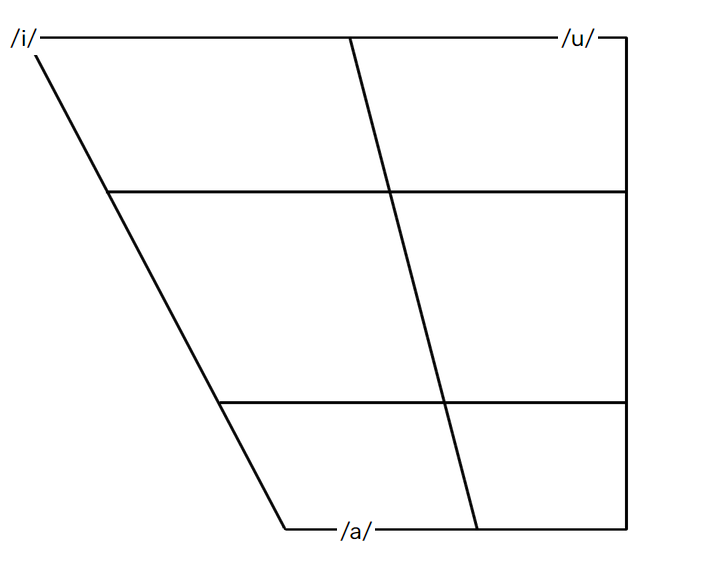
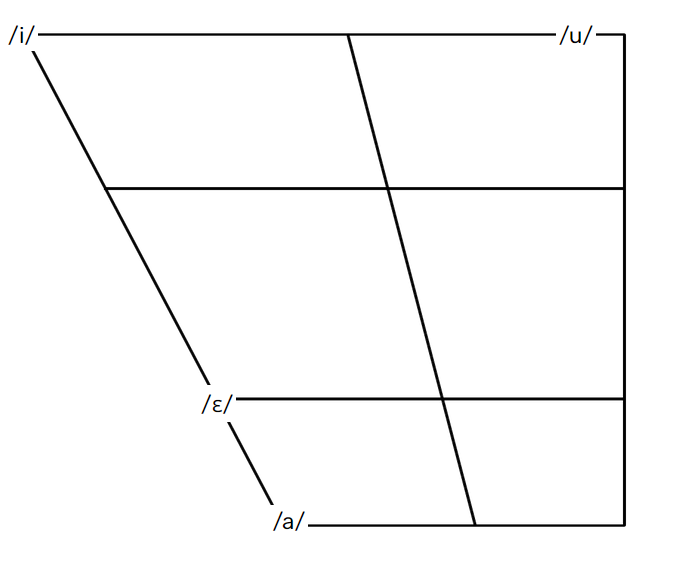
Updated phonology

diff --git a/Rules/Orthography/LatinOrthography.md b/Rules/Orthography/LatinOrthography.md
@@ -3,34 +3,34 @@
 The standard orthography for the language calls for the use of the Latin script. For consistency the entire manual will write Alzapar words in this orthographic standard unless used for demonstration of other scripts.
 The following is the Latin alphabet for the language along with IPA values for each letter:
 
-|   Letter   |   IPA   |
-|------------|---------|
-| '          |   /ʔ/   |
-| Aa         |   /a/   |
-| Bb         |   /b/   |
-| Dd         |   /d/   |
-| Ff         |   /f/   |
-| Gg         |   /g/   |
-| Hh         |   /h/   |
-| Ii         |   /i/   |
-| Jj         |   /ʒ/   |
-| Kk         |   /k/   |
-| Ll         |   /l/   |
-| Mm         |   /m/   |
-| Nn         |   /n/   |
-| Pp         |   /p/   |
-| Qq         |   /q/   |
-| Rr         |   /r/   |
-| Ss         |   /s/   |
-| Šš         |   /ʃ/   |
-| Tt         |   /t/   |
-| TS Ts ts   |   /ʦ/   |
-| Uu         |   /u/   |
-| Vv         |   /v/   |
-| Ww         |   /w/   |
-| Xx         |   /x/   |
-| Yy         |   /j/   |
-| Zz         |   /z/   |
+|   Letter   |   IPA     |
+|------------|-----------|
+| '          |   /ʔ/     |
+| Aa         |   [a ~ ɛ] |
+| Bb         |   /b/     |
+| Dd         |   /d/     |
+| Ff         |   /f/     |
+| Gg         |   /g/     |
+| Hh         |   /h/     |
+| Ii         |   /i/     |
+| Jj         |   /ʒ/     |
+| Kk         |   /k/     |
+| Ll         |   /l/     |
+| Mm         |   /m/     |
+| Nn         |   /n/     |
+| Pp         |   /p/     |
+| Qq         |   /q/     |
+| Rr         |   /r/     |
+| Ss         |   /s/     |
+| Šš         |   /ʃ/     |
+| Tt         |   /t/     |
+| TS Ts ts   |   /ʦ/     |
+| Uu         |   /u/     |
+| Vv         |   /v/     |
+| Ww         |   /w/     |
+| Xx         |   /x/     |
+| Yy         |   /j/     |
+| Zz         |   /z/     |
 
 Words are spelled as they sound. 
 
@@ -38,6 +38,6 @@ The first letter of a sentence is capitalized. Proper nouns are also capitalized
 
 Long vowels are represented by a macron above the vowel or by writing two of the same vowel. For example: "kitāb/kitaab".
 
-The definite article "al" is connected to the word it makes definite by a hyphen. For example "the book" would be "al-kitáb".
+The definite article "al" is connected to the word it makes definite by a hyphen. For example "the book" would be "al-kitāb".
 
-If a word using the definite article begins with a sun consonant then the "l" is replaced with that consonant. For example "the water" would be "aš-šiváts".
+If a word using the definite article begins with a sun consonant then the "l" is replaced with that consonant. For example "the water" would be "aš-šivāts".
